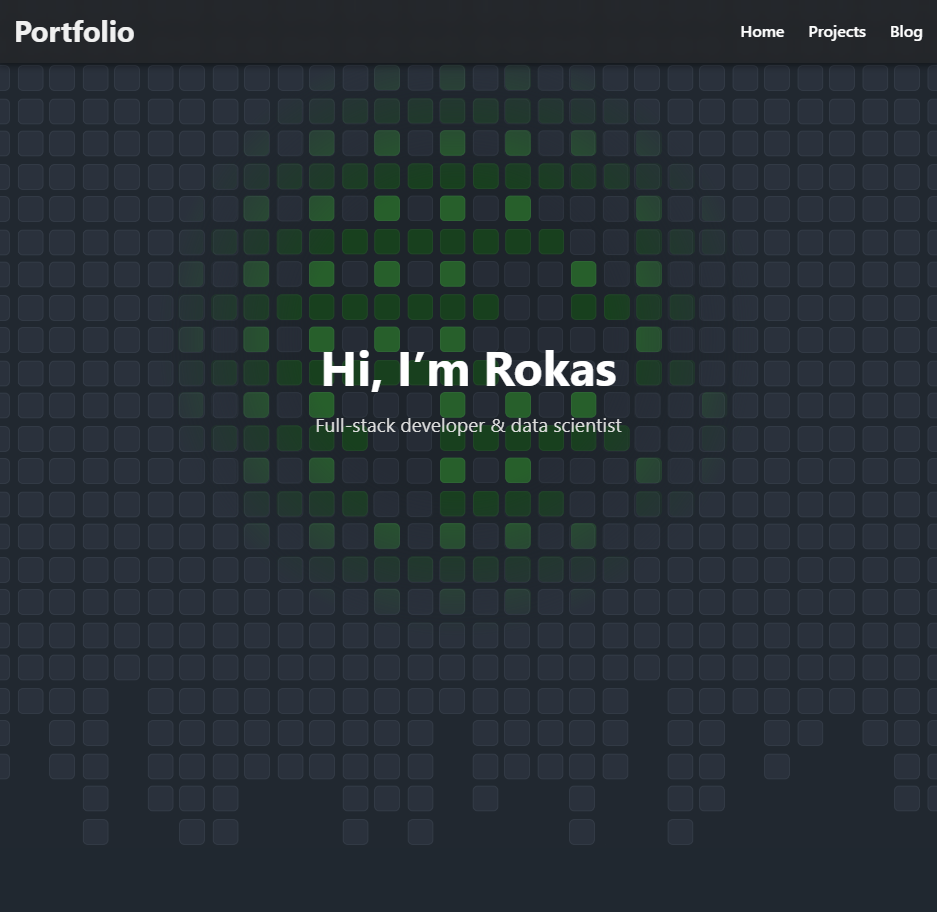
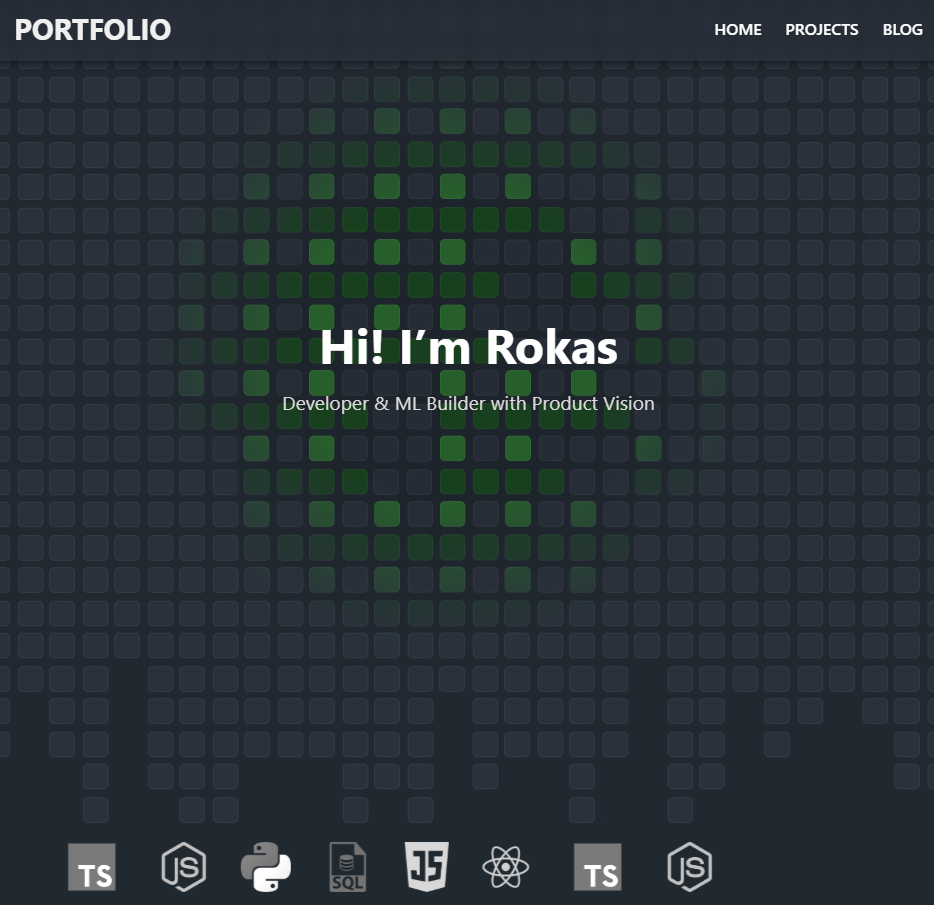
Add see more button - Smooth Scroll to top - Update readme

diff --git a/src/pages/Home.tsx b/src/pages/Home.tsx
@@ -1,5 +1,6 @@
 import { useEffect } from 'react';
 import ImageCarousel from '../components/ImageCarousel';
+import { Link } from 'react-router-dom';
 
 
 export default function Home() {
@@ -127,7 +128,16 @@ export default function Home() {
                   "/vite-react-deploy/images/fybc/3.png"
                 ]} />
               </div>
-    
+
+              {/* See more link */}
+              <div style={{ textAlign: "center", marginTop: "2rem", gridColumn: "1 / -1" }}>
+                <Link to="/projects" style={{ color: "#66ccff", textDecoration: "none", fontWeight: 500, fontSize: "1rem" }}
+                  onMouseEnter={(e) => (e.currentTarget.style.textDecoration = "underline")}
+                  onMouseLeave={(e) => (e.currentTarget.style.textDecoration = "none")}
+                >
+                  See more projects
+                </Link>
+              </div>
             </div>
           </div>
         </section>

diff --git a/src/main.tsx b/src/main.tsx
@@ -3,12 +3,14 @@ import ReactDOM from 'react-dom/client';
 import { BrowserRouter } from 'react-router-dom';
 import './index.css';
 import App from './App';
+import ScrollToTop from './ScrollToTop';
 import './index.css';
 
 
 ReactDOM.createRoot(document.getElementById('root')!).render(
   <React.StrictMode>
     <BrowserRouter basename="/vite-react-deploy">
+      <ScrollToTop />
       <App />
     </BrowserRouter>
   </React.StrictMode>

diff --git a/src/ScrollToTop.tsx b/src/ScrollToTop.tsx
@@ -1,0 +1,12 @@
+import { useEffect } from "react";
+import { useLocation } from "react-router-dom";
+
+export default function ScrollToTop() {
+  const { pathname } = useLocation();
+
+  useEffect(() => {
+    window.scrollTo(0, 0);
+  }, [pathname]);
+
+  return null;
+}

diff --git a/src/App.css b/src/App.css
@@ -1,5 +1,6 @@
 /* === Global Reset === */
 html {
+  scroll-behavior: smooth;
   box-sizing: border-box;
   overflow-x: hidden;
   width: 100%;
